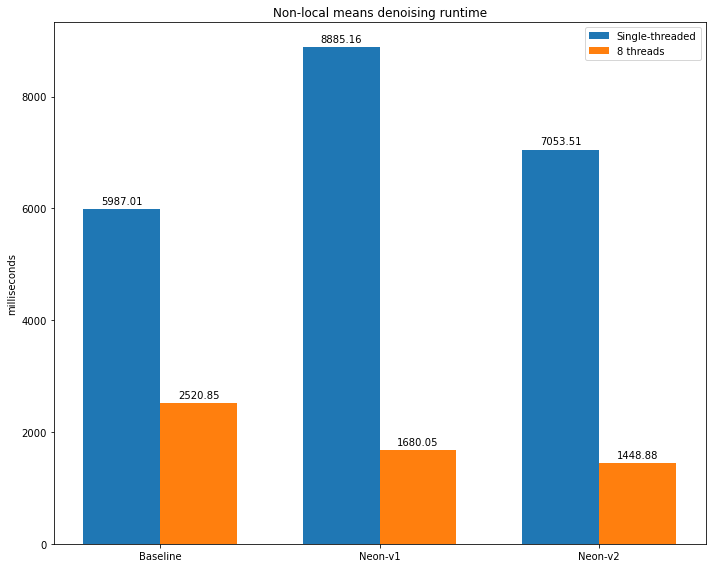
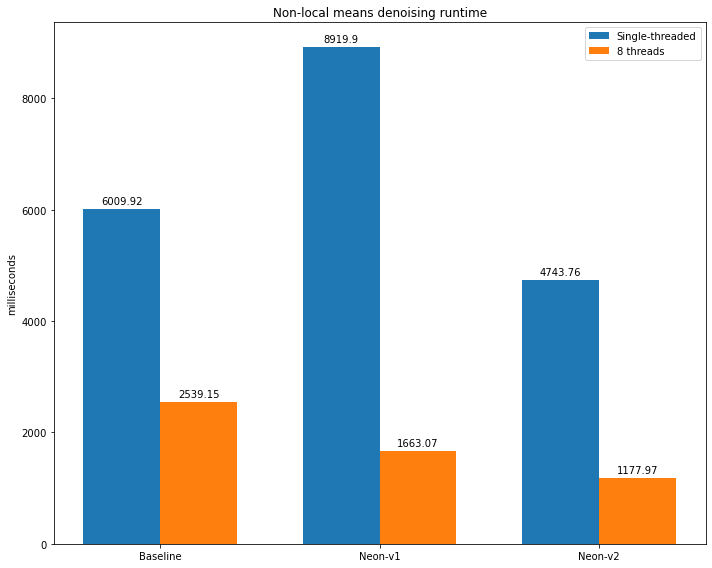
Update README.md

diff --git a/README.md b/README.md
@@ -82,7 +82,7 @@ $ make
         Image loaded
         Running nlm_unoptimized:
         Thread count [1]
-        Execution time =5987.01 milliseconds
+        Execution time =6009.92 milliseconds
         ```
 
     - To run the implementation **with Neon intrinsic optimization v1, with a single thread**, run the executable `nlm_denoise` with a single argument, `1`.
@@ -95,7 +95,7 @@ $ make
         Image loaded
         Running nlm_neon:
         Thread count [1]
-        Execution time =8885.16 milliseconds
+        Execution time =8919.9 milliseconds
         ```
 
     - To run the implementation **with Neon intrinsic optimization v2, with a single thread**, run the executable `nlm_denoise` with a single argument, `2`.
@@ -108,7 +108,7 @@ $ make
         Image loaded
         Running nlm_neon_fixed_k:
         Thread count [1]
-        Execution time =7053.51 milliseconds
+        Execution time =4743.76 milliseconds
         ```
 
 - OpenMP parallel for loop
@@ -123,7 +123,7 @@ $ make
         Image loaded
         Running nlm_unoptimized:
         Thread count [8]
-        Execution time =2520.85 milliseconds
+        Execution time =2539.15 milliseconds
         ```
 
     - To run the implementation **with Neon intrinsic optimization v1, with OpenMP parallel for loop**, run the executable `nlm_denoise` with first argument = `1`, plus an arbitrary second argument.
@@ -136,7 +136,7 @@ $ make
         Image loaded
         Running nlm_neon:
         Thread count [8]
-        Execution time =1680.05 milliseconds
+        Execution time =1663.07 milliseconds
         ```
 
     - To run the implementation **with Neon intrinsic optimization v2, with OpenMP parallel for loop**, run the executable `nlm_denoise` with first argument = `2`, plus an arbitrary second argument.
@@ -149,7 +149,7 @@ $ make
         Image loaded
         Running nlm_neon_fixed_k:
         Thread count [8]
-        Execution time =1448.88 milliseconds
+        Execution time =1177.97 milliseconds
         ```
 
 ---
@@ -160,17 +160,17 @@ $ make
 
 |Configuration|Time (milliseconds)|
 |:-:|:-:|
-|Baseline|5987.01|
-|Neon intrinsic optimization v1|8885.16|
-|Neon intrinsic optimization v2|7053.51|
+|Baseline|6009.92|
+|Neon intrinsic optimization v1|8919.90|
+|Neon intrinsic optimization v2|4743.76|
 
 <b>Multithreaded threaded (OpenMP parallel for):</b>
 
 |Configuration|Time (milliseconds)|
 |:-:|:-:|
-|Baseline|2520.85|
-|Neon intrinsic optimization v1|1680.05|
-|Neon intrinsic optimization v2|1448.88|
+|Baseline|2539.15|
+|Neon intrinsic optimization v1|1663.07|
+|Neon intrinsic optimization v2|1177.97|
 
 <img src='img/runtime-profile.png'>
 
@@ -235,7 +235,7 @@ $ make
 
         <br>
         
-        Line 233-274 in <a href=./main.cpp>main.cpp</a>:
+        Line 233-285 in <a href=./main.cpp>main.cpp</a>:
 
         ```c++
         template <bool fixedK>
@@ -264,12 +264,23 @@ $ make
                                 int refIndex = (padLen + y + ny) + (padLen + x + nx + kx) * padded.height;
                                 int kernelIndex = (padLen + y) + (padLen + x + kx) * padded.height;
                                 if (fixedK){
-                                    ssd += ssd_reduce_K3(vec128, padded.data.data()+kernelIndex, padded.data.data()+refIndex);
+                                    ssd_reduce_K3(vec128, padded.data.data()+kernelIndex, padded.data.data()+refIndex);
                                 }
                                 else{
-                                    ssd += ssd_reduce(vec128, padded.data.data()+kernelIndex, padded.data.data()+refIndex, kernelWidth);
+                                    ssd += ssd_reduce(padded.data.data()+kernelIndex, padded.data.data()+refIndex, kernelWidth);
                                 }
 
+                            }
+                            // perform the summation of the accumulator only once
+                            if (fixedK){
+                                float32x2_t vec64a, vec64b;
+                                vec64a = vget_low_f32(vec128); // split 128-bit vector
+
+                                vec64b = vget_high_f32(vec128); // into two 64-bit vectors
+
+                                vec64a = vadd_f32 (vec64a, vec64b); // add 64-bit vectors together
+
+                                ssd = vget_lane_f32(vec64a, 0) + vget_lane_f32(vec64a, 1);
                             }
                             float dSquared = ssd/kernelArea;
                             float ex = std::exp(-dSquared/hSquared);
@@ -327,18 +338,19 @@ $ make
         
         <br>
             
-        Line 276-332 in <a href=./main.cpp>main.cpp</a>:
+        Line 287-344 in <a href=./main.cpp>main.cpp</a>:
         
         ```cpp
         const int SIMD_MULTPLE = 4;
 
         // neon simd utility function
-        float ssd_reduce(float32x4_t vec128, const float* ptrA, const float* ptrB, uint32_t count) {
+        float ssd_reduce(const float* ptrA, const float* ptrB, uint32_t count) {
             int remainder = count % SIMD_MULTPLE;
             int fullLoopCount = count/SIMD_MULTPLE; //floor
             int fullLoopEnd = (fullLoopCount-1)*SIMD_MULTPLE ;
 
             float32x2_t vec64a, vec64b;
+            float32x4_t vec128 = vdupq_n_f32(0.0); // clear accumulators
             float32x4_t vecA, vecB;
 
             // full stride, contiguous memory access loop
@@ -409,7 +421,9 @@ $ make
             float32x4_t diff = vsubq_f32(vecA,vecB);        
             vec128 = vmlaq_f32(vec128, diff, diff); // multiply-accumulate the diff
             ```
-        2. by fixing `K` to be constant, we remove the condition checking for remainder loop.
+        1. by fixing `K` to be constant, we remove the condition checking for remainder loop.
+
+        1. by making the `vec128` accumulator a common global variable shared among all the column-wise 1-d convolutions, and perform the summation of the accumulator only once (for every instance of 2d kernel convolution).
 
         <br>
 
@@ -417,7 +431,7 @@ $ make
 
         <br>
             
-        Line 334-375 in <a href=./main.cpp>main.cpp</a>:
+        Line 346-374 in <a href=./main.cpp>main.cpp</a>:
 
         ```c++
         const int K3_COUNT = 7; // K=3; count=2*K+1
@@ -425,8 +439,7 @@ $ make
         const int K3_FULL_LOOP_END = (K3_FULL_LOOP_COUNT-1)*SIMD_MULTPLE;
         const int K3_REMAINDER_LOOP_START = (K3_FULL_LOOP_COUNT)*SIMD_MULTPLE;
 
-        float ssd_reduce_K3(float32x4_t vec128, const float* ptrA, const float* ptrB) {
-            float32x2_t vec64a, vec64b;
+        void ssd_reduce_K3(float32x4_t& vec128, const float* ptrA, const float* ptrB) {
             float32x4_t vecA, vecB;
 
             // full stride, contiguous memory access loop
@@ -449,18 +462,6 @@ $ make
 
             float32x4_t diff = vsubq_f32(vecA,vecB);
             vec128 = vmlaq_f32(vec128, diff, diff); // multiply-accumulate the diff
-
-            vec64a = vget_low_f32(vec128); // split 128-bit vector
-
-            vec64b = vget_high_f32(vec128); // into two 64-bit vectors
-
-            vec64a = vadd_f32 (vec64a, vec64b); // add 64-bit vectors together
-
-            float result = vget_lane_f32(vec64a, 0); // extract lanes and
-
-            result += vget_lane_f32(vec64a, 1); // add together scalars
-
-            return result;
         }
         ```
 
